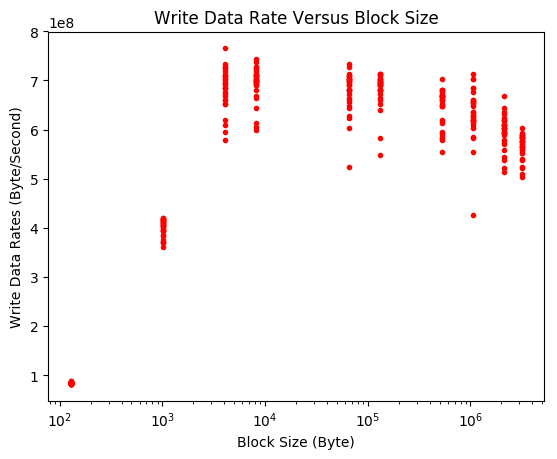
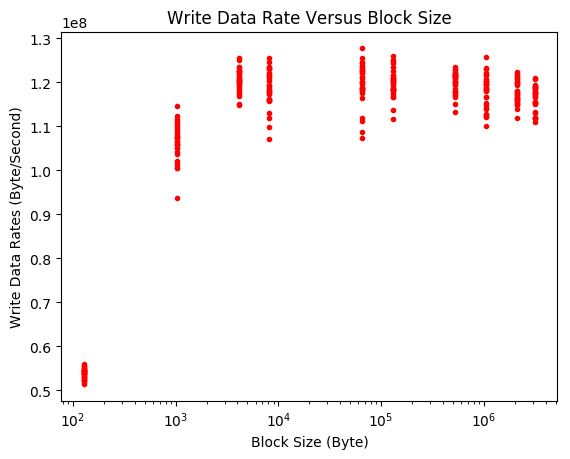
still need test on usb and external hard disk

diff --git a/Assignment1/create_random_file.cc b/Assignment1/create_random_file.cc
@@ -38,10 +38,10 @@ int main(int argc, char *argv[])
   long start_time = t.time * 1000 + t.millitm;
 
   /* Write randomly generated letters into file */
-  random_array(buffer, block_size);
   size_t bytes_write;
   while(bytes_left > block_size)
   {
+    random_array(buffer, block_size);
     bytes_write = fwrite(buffer, 1, block_size, file);
     if(bytes_write < block_size){
       fprintf(stderr, "Byte write failed");
@@ -51,6 +51,7 @@ int main(int argc, char *argv[])
     fflush(file);
     bytes_left -= block_size;
   }
+  random_array(buffer, block_size);
   bytes_write = fwrite(buffer, 1, bytes_left, file);
   if(bytes_write < bytes_left){
     fprintf(stderr, "Byte write failed");

diff --git a/Assignment1/util.py b/Assignment1/util.py
@@ -24,14 +24,12 @@ for i in range(300):
     # calculate write data rates
     write_result = check_output(["./create_random_file", file_names[i], str(total_bytes), str(block_sizes[i])])
     write_result = write_result.split()[1]
-    print(write_result)
     write_data_rates[i] = int(total_bytes / (float(write_result) / 1000))
 
 for i in range(300):
     # calculate read data rates
     read_result = check_output(["./get_histogram", file_names[i], str(block_sizes[i])])
     read_result = read_result.splitlines()[-1].split()[1]
-    print(read_result)
     read_data_rates[i] = int(total_bytes / (float(read_result) / 1000))
 
 # Write Plot
